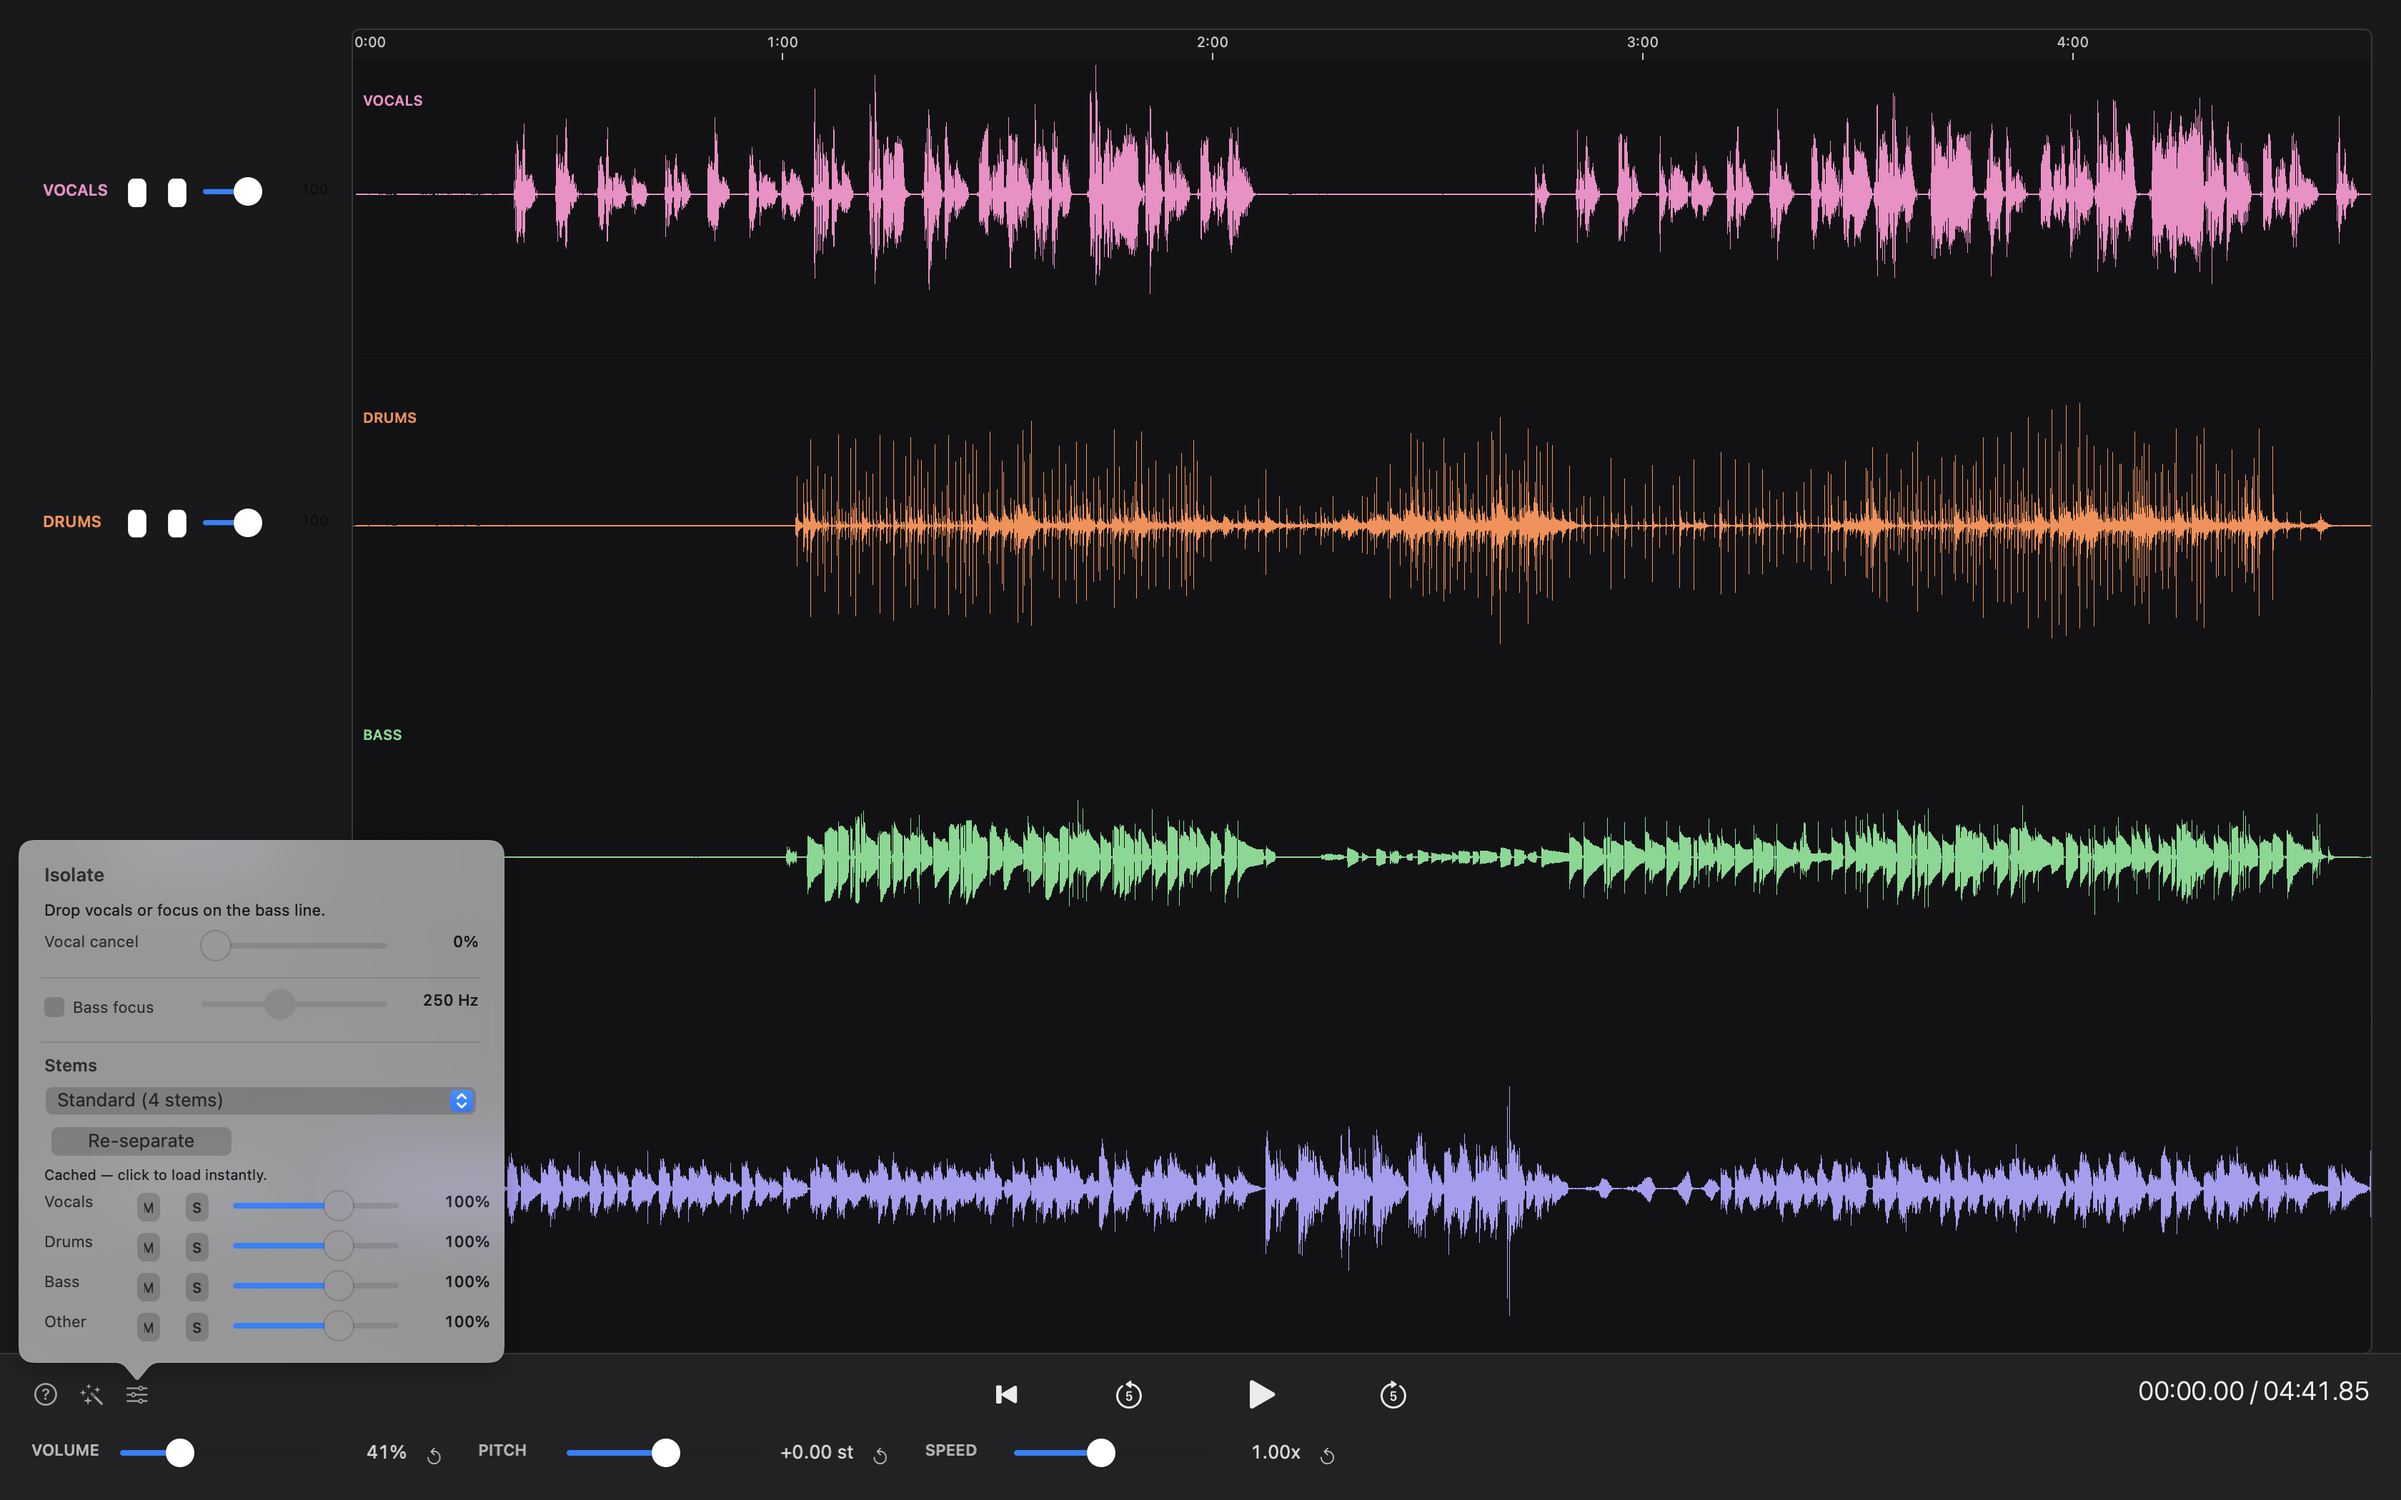
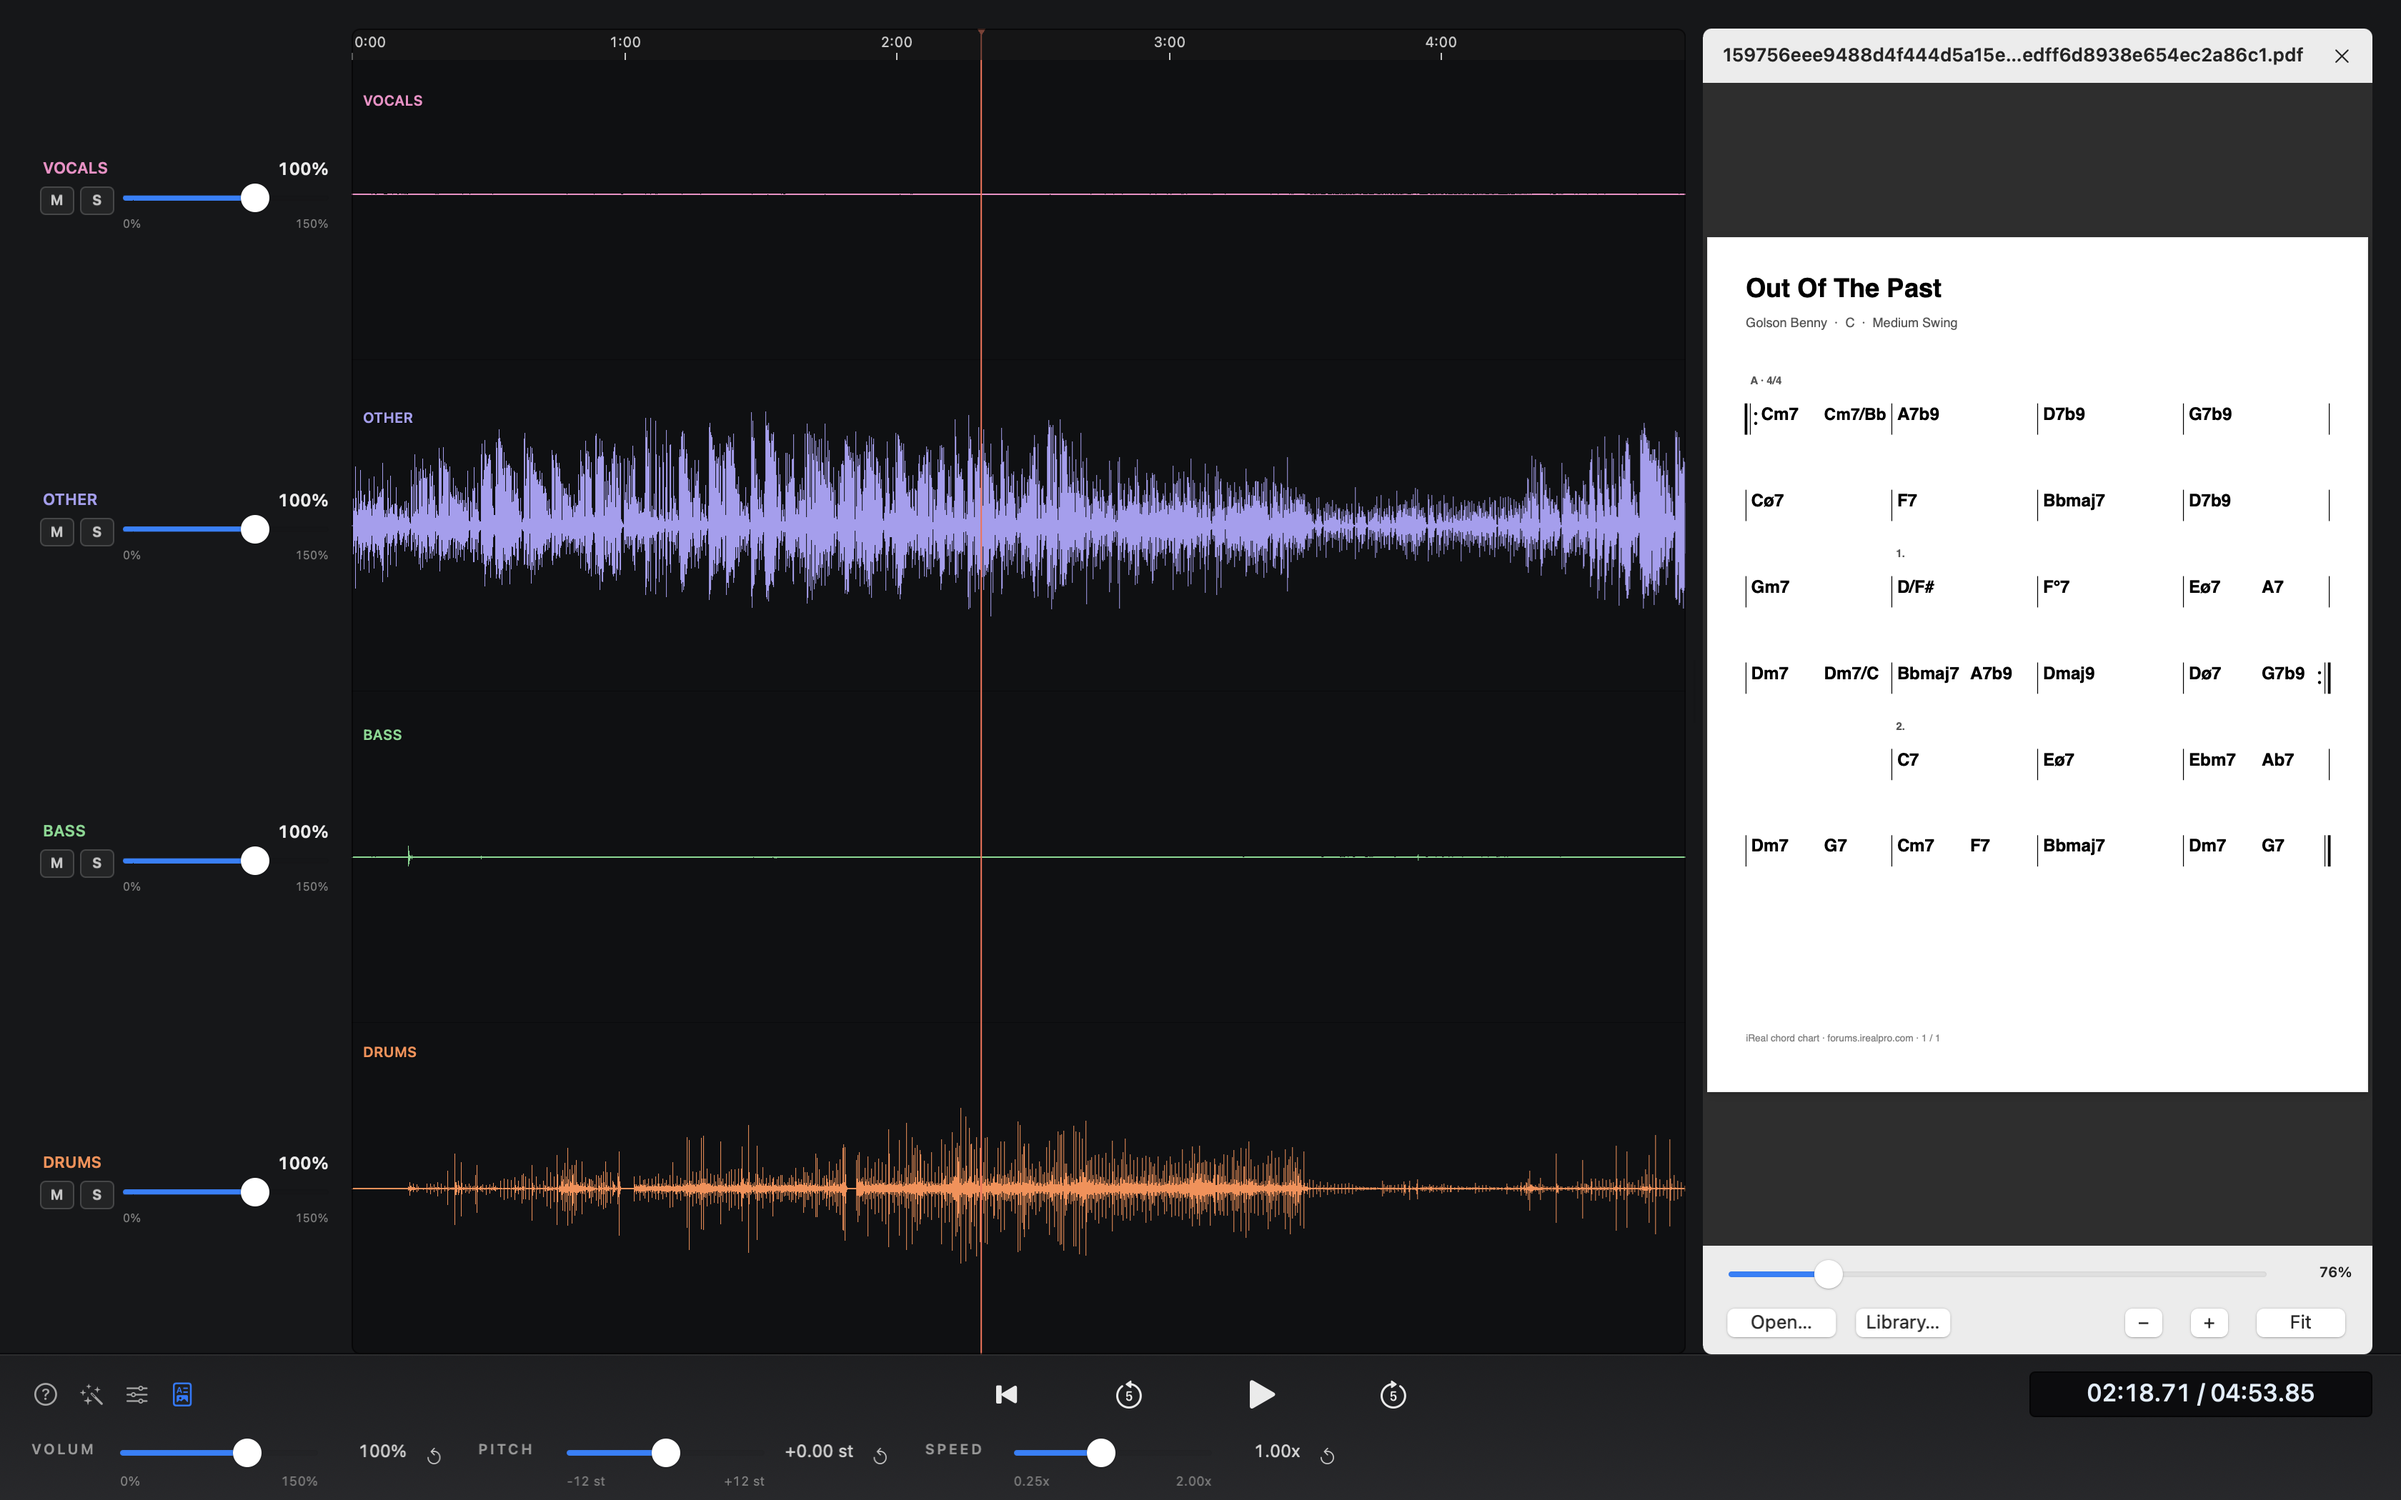
Refresh README screenshot with iReal chart panel

diff --git a/README.md b/README.md
@@ -5,7 +5,7 @@ A free, open-source music transcription tool for macOS — built as an alternati
 > *"If I stop practice for one day, I notice it; two days, my friends notice it; three days, the public notices it."*
 > — Hans von Bülow (1877)
 
-![OpenScribe screenshot](docs/screenshot.png)
+![OpenScribe with stem waveforms and an iReal chord chart](docs/screenshot.png)
 
 ## Features
 
